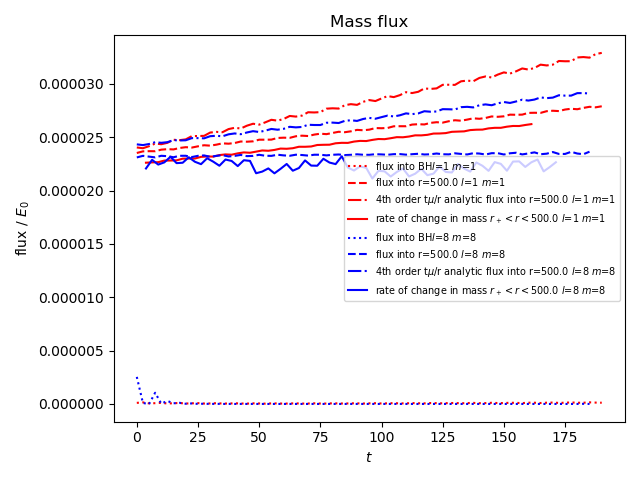
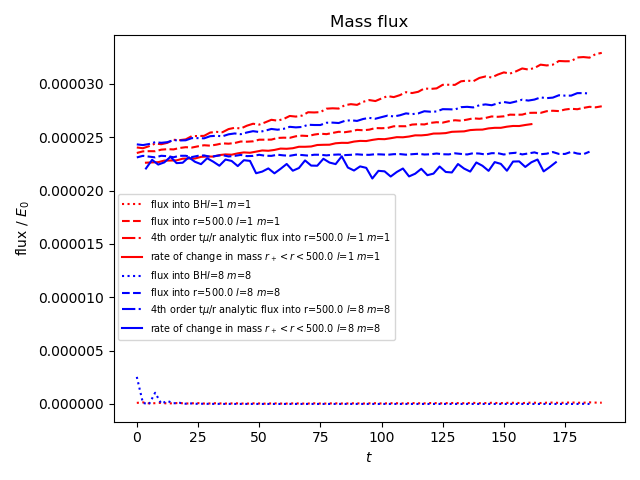
new plot

Changed region(s): [[0.1875, 0.3125, 0.9688, 0.7188]]

diff --git a/Analysis/scripts/plot_mass_flux_KS.py b/Analysis/scripts/plot_mass_flux_KS.py
@@ -205,7 +205,7 @@ def plot_graph():
 		ax1.set_ylabel("flux / $E_0$")
 		plt.title("Mass flux")
 		save_path = home_path + "plots/mass_flux_Kerr_Schild_compare_lm_r_plus_to_500.png"
-	ax1.legend(loc='best', fontsize=7)
+	ax1.legend(loc='lower left', bbox_to_anchor=(0.0,0.2), fontsize=7)
 	plt.tight_layout()
 	plt.savefig(save_path)
 	print("saved plot as " + str(save_path))
